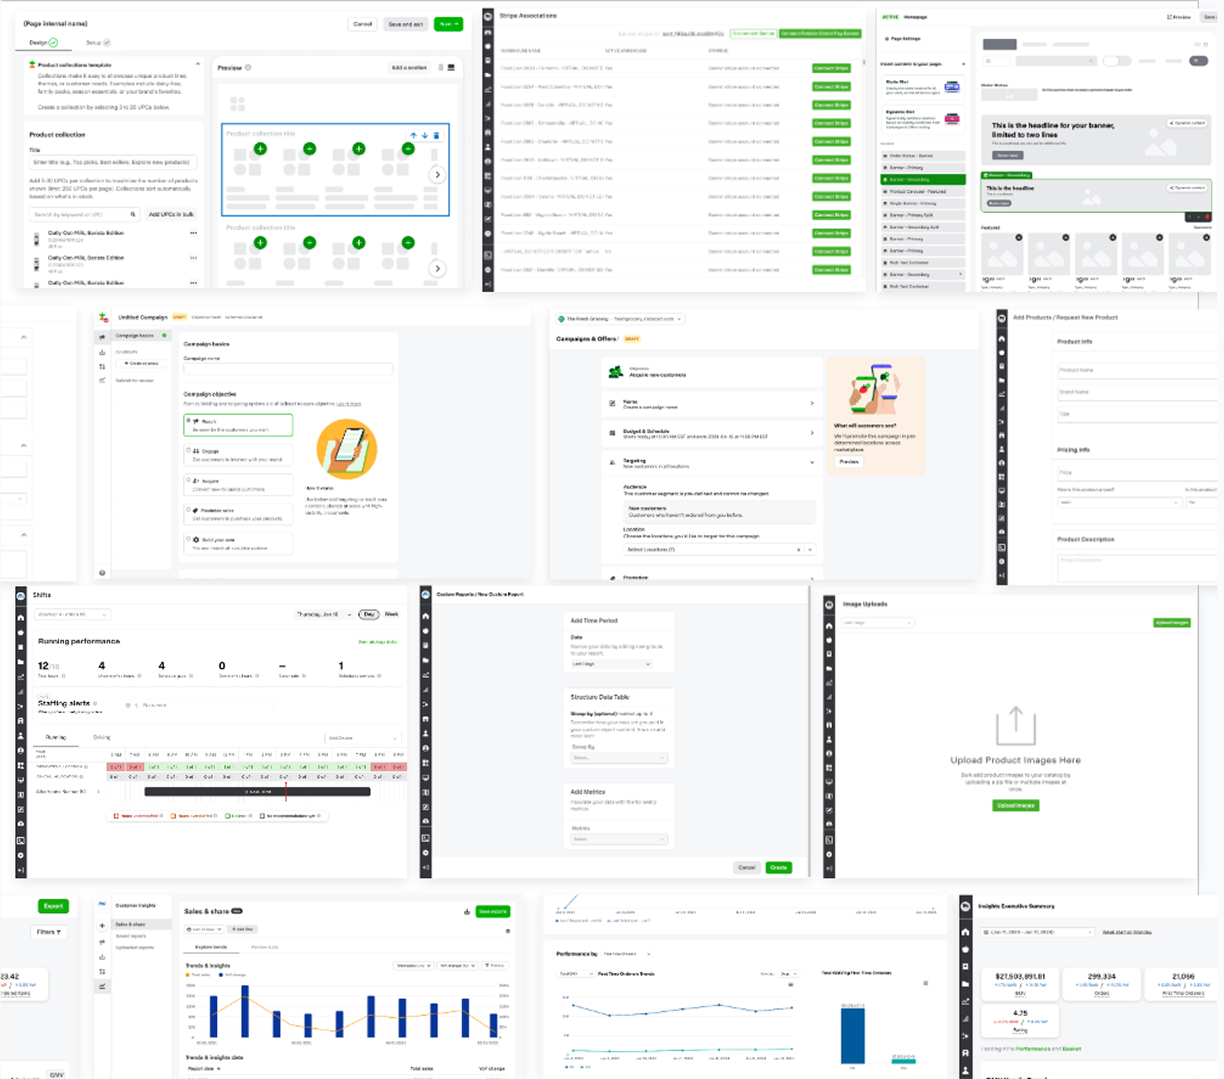
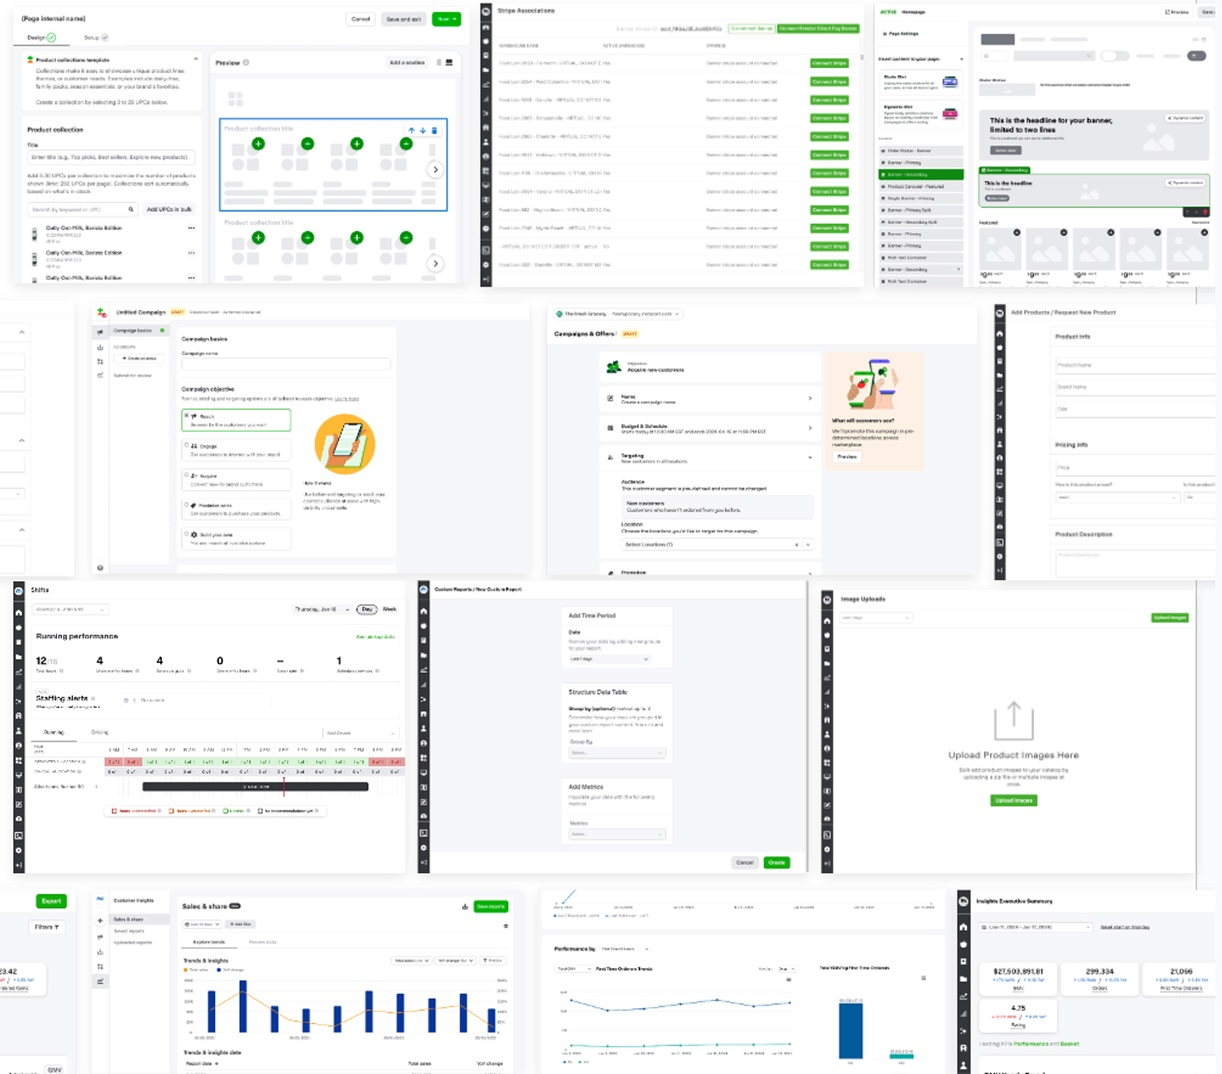
presso: update landing page + sync latest deck changes

diff --git a/l/presso/index.html b/l/presso/index.html
@@ -124,8 +124,8 @@
         </svg>
       </div>
       <div class="deck-body">
-        <div class="deck-title">Tooling Design System</div>
-        <div class="deck-sub">Instacart • Design Systems</div>
+        <div class="deck-title">Instacart Tooling Design System</div>
+        <div class="deck-sub">TDS · Design System</div>
       </div>
       <span class="arrow">→</span>
     </a>